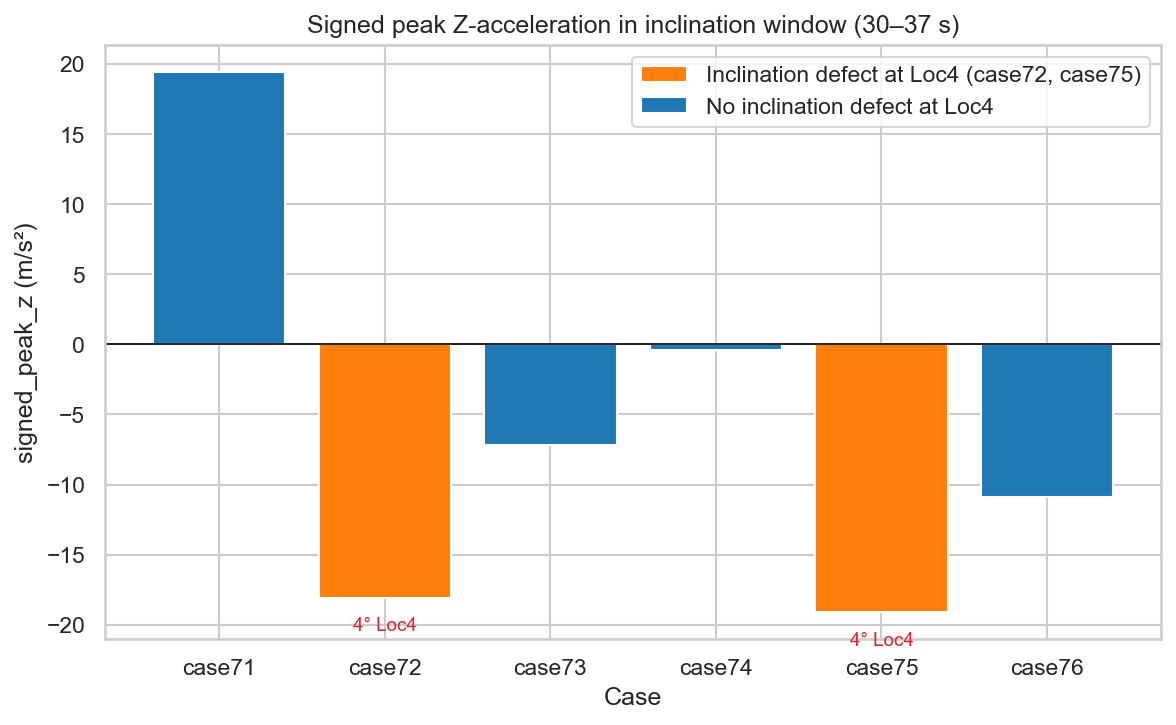
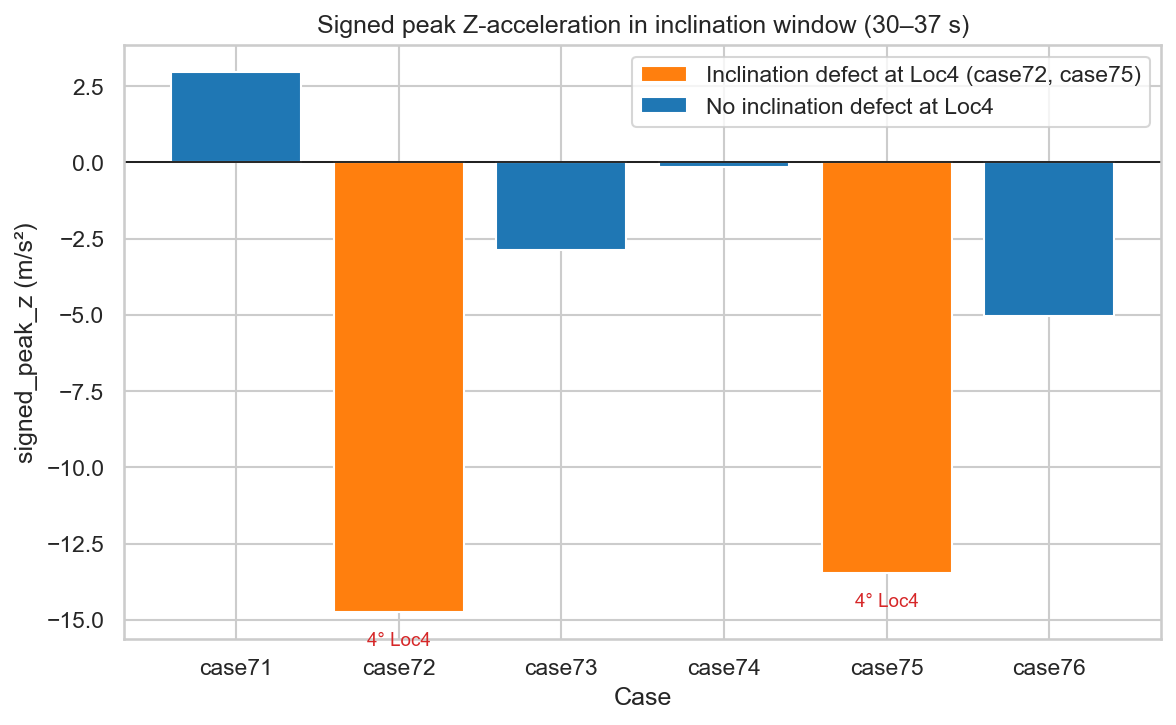
docs: complete feature engineering notebook with approval gate signed off

diff --git a/CORRECTIONS_AND_FINDINGS.md b/CORRECTIONS_AND_FINDINGS.md
@@ -172,3 +172,11 @@ Test files:
 Always test new modules with a scratch check.py on real G7 data
 before writing tests. Delete check.py after verification.
 Never commit check.py to the repo.
+---
+
+## 18. Frequency defect contaminates fixed phone RMS ratios
+case71 (frequency defect only) shows rms_ratio_P1=7.2, rms_ratio_P2=18.9
+against G0 baseline. The 45 Hz generator transmits energy through the frame
+to fixed phones P1 and P2, massively inflating their RMS ratios.
+Damping model must exclude cases with active frequency defects OR use
+phone-to-phone relative ratios (P3/P1, P4/P2) rather than absolute G0 ratios.
